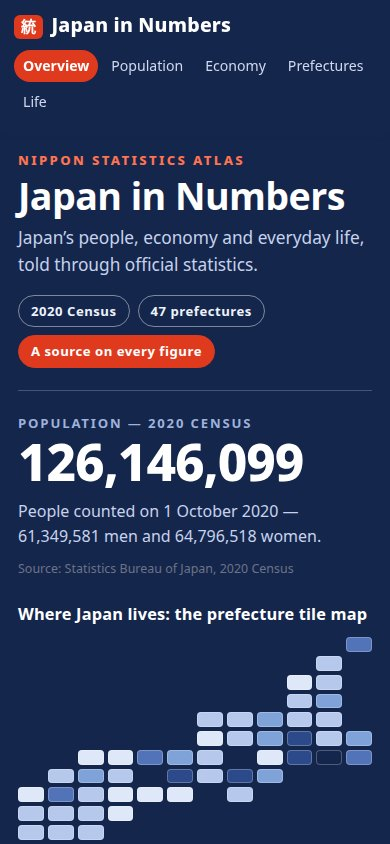
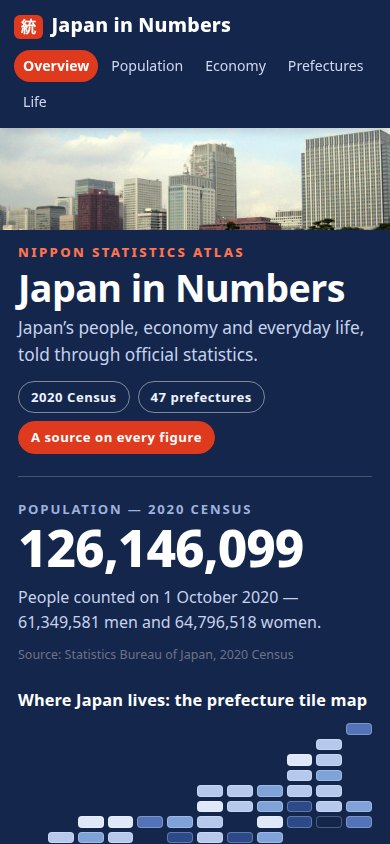
v6 (build only, NOT submitted): photo hero (Marunouchi, CC BY 2.0) + section colour-coding

diff --git a/app/style.css b/app/style.css
@@ -16,6 +16,41 @@
   --radius: 14px;
 }
 
+/* Section colour-coding, census.gov style: every part of the atlas
+   carries its own accent — vermillion for the overview, then teal,
+   moss, indigo and amber — while navy stays the base ink throughout.
+   main.js stamps the route name on <body data-section>, and the
+   kickers, panel rules, badges and the active nav pill follow it. */
+body {
+  --accent: var(--vermillion);
+  --accent-tint: #fdeee9;
+  --accent-border: #f0b3a2;
+}
+
+body[data-section='population'] {
+  --accent: #0f766e;
+  --accent-tint: #e5f3f0;
+  --accent-border: #a5d6cd;
+}
+
+body[data-section='economy'] {
+  --accent: #5c7a1d;
+  --accent-tint: #f0f4e0;
+  --accent-border: #c6d69b;
+}
+
+body[data-section='prefectures'] {
+  --accent: #2c4a8a;
+  --accent-tint: #f2f5fc;
+  --accent-border: #c3cfe8;
+}
+
+body[data-section='life'] {
+  --accent: #b45309;
+  --accent-tint: #fdf2e0;
+  --accent-border: #edcb9a;
+}
+
 * {
   box-sizing: border-box;
 }
@@ -88,7 +123,7 @@ body {
 }
 
 .site-nav a.active {
-  background: var(--vermillion);
+  background: var(--accent, var(--vermillion));
   color: #fff;
   font-weight: 700;
 }
@@ -104,7 +139,7 @@ body {
    the atlas (01 · Population, 02 · Economy, …). */
 .kicker,
 .panel-kicker {
-  color: var(--vermillion);
+  color: var(--accent);
   font-weight: 800;
   letter-spacing: 0.16em;
   text-transform: uppercase;
@@ -124,8 +159,25 @@ body {
   background: var(--indigo);
   color: #fff;
   margin: 0 -20px 16px;
-  padding: 26px 36px 15px;
+  padding: 0 36px 10px;
   border-radius: 0 0 18px 18px;
+}
+
+/* The census.gov move: a real photograph across the top of the cover —
+   the Marunouchi towers over the Imperial Palace plaza — with the
+   navy poster content flowing on below it. The band bleeds to the
+   hero's edges; the file is pre-cropped to a wide strip so it ships
+   small. */
+.hero-photo {
+  margin: 0 -36px;
+}
+
+.hero-photo img {
+  display: block;
+  width: 100%;
+  height: 116px;
+  object-fit: cover;
+  object-position: center 30%;
 }
 
 .hero-kicker {
@@ -134,14 +186,14 @@ body {
   letter-spacing: 0.18em;
   text-transform: uppercase;
   font-size: 0.82rem;
-  margin: 0 0 6px;
+  margin: 12px 0 6px;
 }
 
 .hero h1 {
-  font-size: 3.75rem;
+  font-size: 3.15rem;
   line-height: 1.04;
   letter-spacing: -0.015em;
-  margin: 0 0 10px;
+  margin: 0 0 8px;
   color: #fff;
 }
 
@@ -157,7 +209,7 @@ body {
   display: flex;
   gap: 8px;
   flex-wrap: wrap;
-  margin: 16px 0 0;
+  margin: 12px 0 0;
 }
 
 .hero-chip {
@@ -195,22 +247,28 @@ body {
   padding: 16px 4px 2px;
 }
 
+/* The page-head kicker is a <p>, so the .page-head p text colour
+   below would otherwise swallow its section accent. */
+.page-head .kicker {
+  color: var(--accent);
+}
+
 /* Giant census figure + tile map, side by side inside the hero. */
 .hero-figure-row {
   display: grid;
   grid-template-columns: 0.85fr 1.15fr;
   gap: 34px;
   align-items: start;
-  margin-top: 20px;
+  margin-top: 12px;
   border-top: 1px solid rgba(255, 255, 255, 0.22);
-  padding-top: 17px;
+  padding-top: 10px;
 }
 
 /* Cover tiles run a little flatter than the prefectures-page ones so
    the whole map — and a first glimpse of the KPI row — fits the
    cover frame. */
 .hero .tile {
-  aspect-ratio: 1.75;
+  aspect-ratio: 2.25;
 }
 
 .hero-figure-label {
@@ -381,9 +439,9 @@ h1[tabindex="-1"]:focus {
   letter-spacing: 0.12em;
   text-transform: uppercase;
   white-space: nowrap;
-  color: var(--indigo-soft);
-  background: #f2f5fc;
-  border: 1.5px solid #c3cfe8;
+  color: var(--accent);
+  background: var(--accent-tint);
+  border: 1.5px solid var(--accent-border);
   border-radius: 999px;
   padding: 3px 9px;
 }
@@ -411,7 +469,7 @@ h1[tabindex="-1"]:focus {
   width: 34px;
   height: 4px;
   border-radius: 2px;
-  background: var(--vermillion);
+  background: var(--accent);
   margin-bottom: 10px;
 }
 
@@ -500,6 +558,24 @@ h1[tabindex="-1"]:focus {
   display: block;
   color: var(--indigo-soft);
   font-size: 1.02rem;
+}
+
+/* Each explore link wears the colour of the section it leads to —
+   the colour code is learnable from the cover onward. */
+.explore-population strong {
+  color: #0f766e;
+}
+
+.explore-economy strong {
+  color: #5c7a1d;
+}
+
+.explore-prefectures strong {
+  color: #2c4a8a;
+}
+
+.explore-life strong {
+  color: #b45309;
 }
 
 .explore-link span {
@@ -621,7 +697,7 @@ h1[tabindex="-1"]:focus {
 }
 
 .th-sort:hover {
-  color: var(--vermillion);
+  color: var(--accent);
 }
 
 /* Prefecture tile map --------------------------------------------------------- */
@@ -729,8 +805,8 @@ h1[tabindex="-1"]:focus {
 
 .pref-controls input:focus,
 .pref-controls select:focus {
-  outline: 3px solid rgba(224, 60, 49, 0.35);
-  border-color: var(--vermillion);
+  outline: 3px solid var(--accent-border);
+  border-color: var(--accent);
 }
 
 .pref-count {
@@ -819,6 +895,22 @@ h1[tabindex="-1"]:focus {
   padding-bottom: 5px;
 }
 
+/* The QuickFacts groups borrow their sections' colours. */
+.qf-population h3 {
+  color: #0f766e;
+  border-bottom-color: #0f766e;
+}
+
+.qf-economy h3 {
+  color: #5c7a1d;
+  border-bottom-color: #5c7a1d;
+}
+
+.qf-life h3 {
+  color: #b45309;
+  border-bottom-color: #b45309;
+}
+
 .qf-row {
   display: flex;
   justify-content: space-between;
@@ -867,9 +959,30 @@ h1[tabindex="-1"]:focus {
   padding-left: 11px;
 }
 
-.coverage-item:nth-child(2),
-.coverage-item:nth-child(5) {
+/* The coverage strip cycles the section palette — one colour per
+   programme family, kept to a quiet left rule. */
+.coverage-item:nth-child(1) {
+  border-left-color: #0f766e;
+}
+
+.coverage-item:nth-child(2) {
+  border-left-color: #5c7a1d;
+}
+
+.coverage-item:nth-child(3) {
+  border-left-color: #b45309;
+}
+
+.coverage-item:nth-child(4) {
   border-left-color: var(--vermillion);
+}
+
+.coverage-item:nth-child(5) {
+  border-left-color: #0f766e;
+}
+
+.coverage-item:nth-child(6) {
+  border-left-color: #5c7a1d;
 }
 
 .coverage-name {
@@ -936,7 +1049,13 @@ h1[tabindex="-1"]:focus {
     grid-template-columns: 1fr;
   }
   .hero {
-    padding: 26px 24px 26px;
+    padding: 0 24px 20px;
+  }
+  .hero-photo {
+    margin: 0 -24px;
+  }
+  .hero-photo img {
+    height: 128px;
   }
   .hero h1 {
     font-size: 2.7rem;
@@ -960,8 +1079,14 @@ h1[tabindex="-1"]:focus {
   }
   .hero {
     margin: 0 -12px 18px;
-    padding: 22px 18px 22px;
+    padding: 0 18px 20px;
     border-radius: 0 0 14px 14px;
+  }
+  .hero-photo {
+    margin: 0 -18px;
+  }
+  .hero-photo img {
+    height: 102px;
   }
   .ticker {
     margin: 0 -12px 14px;

diff --git a/app/views.js b/app/views.js
@@ -156,8 +156,8 @@ function qfRow(label, value, vintage) {
   </div>`;
 }
 
-function qfGroup(title, rows) {
-  return `<div class="qf-group"><h3>${title}</h3>${rows.map((r) => qfRow(r[0], r[1], r[2])).join('')}</div>`;
+function qfGroup(title, rows, section) {
+  return `<div class="qf-group${section ? ` qf-${section}` : ''}"><h3>${title}</h3>${rows.map((r) => qfRow(r[0], r[1], r[2])).join('')}</div>`;
 }
 
 function quickFactsHtml() {
@@ -174,7 +174,7 @@ function quickFactsHtml() {
       ['Households', indicatorValue('Households'), '2020 Census'],
       ['Births', formatPersons(lastVital.births), String(lastVital.year)],
       ['Deaths', formatPersons(lastVital.deaths), String(lastVital.year)],
-    ])}
+    ], 'population')}
     ${qfGroup('Economy', [
       ['GDP (nominal)', indicatorValue('GDP (nominal)'), '2024'],
       ['GDP per capita', indicatorValue('GDP per capita'), '2023'],
@@ -182,7 +182,7 @@ function quickFactsHtml() {
       ['Consumer prices', priceFacts[0].value, '2024 average'],
       ['Exports', tradeFacts.exports, '2024'],
       ['Imports', tradeFacts.imports, '2024'],
-    ])}
+    ], 'economy')}
     ${qfGroup('Life', [
       ['Life expectancy', indicatorValue('Life expectancy'), '2023'],
       ['Median age', indicatorValue('Median age'), '2023'],
@@ -190,7 +190,7 @@ function quickFactsHtml() {
       ['Average household size', householdSize?.value ?? '', '2020 Census'],
       ['Living alone, share of households', livingAlone?.value ?? '', '2020 Census'],
       ['Paid leave taken', paidLeave?.value ?? '', '2023'],
-    ])}
+    ], 'life')}
   </div>
   <p class="qf-foot">Vintages are the reference period of each figure. Every figure above
   appears with its full source in the panels of this atlas.</p>`;
@@ -241,6 +241,7 @@ export function renderOverview() {
 
   return `
   <section class="hero">
+    <div class="hero-photo"><img src="hero-tokyo.jpg" alt="The Marunouchi office towers of Tokyo, seen across the Imperial Palace plaza"></div>
     <p class="hero-kicker">Nippon Statistics Atlas</p>
     <h1>Japan in Numbers</h1>
     <p class="hero-lede">Japan’s people, economy and everyday life, told through official statistics.</p>
@@ -292,10 +293,10 @@ export function renderOverview() {
     ${panel('Japan at a glance', `<div class="glance-list">${glance}</div>`, null, null, 'FACTS · REFERENCE')}
     <section class="panel">
       <h2>Explore the atlas</h2>
-      <a class="explore-link" href="#/population"><strong>Population</strong><span>Pyramid, ageing and a century of censuses →</span></a>
-      <a class="explore-link" href="#/economy"><strong>Economy</strong><span>GDP, jobs, prices and trade →</span></a>
-      <a class="explore-link" href="#/prefectures"><strong>Prefectures</strong><span>All 47 prefectures — a tile map of where Japan lives, compare any two or three, search and sort the table →</span></a>
-      <a class="explore-link" href="#/life"><strong>Life</strong><span>Health, school, households and working time →</span></a>
+      <a class="explore-link explore-population" href="#/population"><strong>Population</strong><span>Pyramid, ageing and a century of censuses →</span></a>
+      <a class="explore-link explore-economy" href="#/economy"><strong>Economy</strong><span>GDP, jobs, prices and trade →</span></a>
+      <a class="explore-link explore-prefectures" href="#/prefectures"><strong>Prefectures</strong><span>All 47 prefectures — a tile map of where Japan lives, compare any two or three, search and sort the table →</span></a>
+      <a class="explore-link explore-life" href="#/life"><strong>Life</strong><span>Health, school, households and working time →</span></a>
     </section>
   </div>
 

diff --git a/app/index.html b/app/index.html
@@ -36,7 +36,8 @@
     Vital Statistics · life tables · Comprehensive Survey of Living Conditions · Ministry of
     Finance: Trade Statistics of Japan · MEXT: School Basic Survey · World Bank: World
     Development Indicators · OECD: Health Statistics. All figures from official Japanese
-    statistics and the international databases named above.</p>
+    statistics and the international databases named above. Cover photo: redjoe, CC BY 2.0,
+    via Wikimedia Commons (cropped and resized).</p>
   </div>
 </footer>
 

diff --git a/app/main.js b/app/main.js
@@ -35,6 +35,9 @@ function markActiveNav(routeName) {
 
 function renderRoute() {
   const route = routes[currentPath()];
+  // The section name drives the per-section accent colour in style.css
+  // (each part of the atlas is colour-coded, census.gov style).
+  document.body.dataset.section = route.name;
   app.innerHTML = route.render();
   document.title = route.title;
   markActiveNav(route.name);
